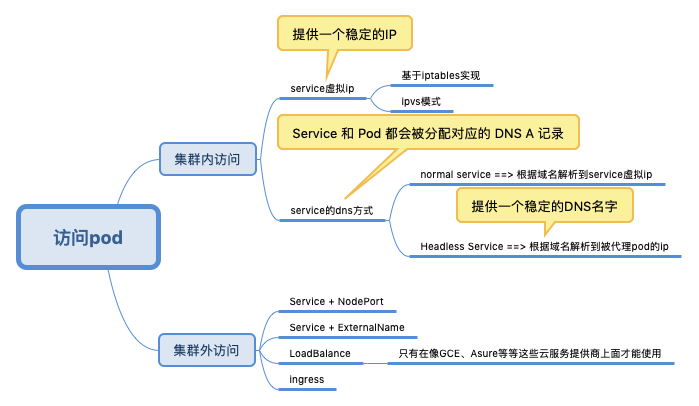
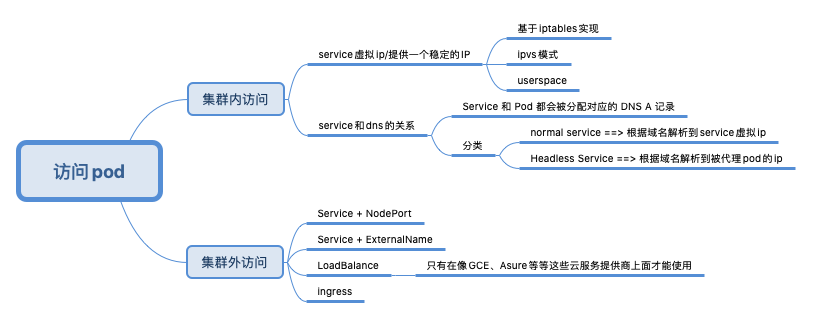
[fix]

diff --git a/_posts/Technology/Kubernetes/2015-03-04-kubernetes_service.md b/_posts/Technology/Kubernetes/2015-03-04-kubernetes_service.md
@@ -1,6 +1,6 @@
 ---
 layout: post
-title: 访问Kubernetes上的服务
+title: 访问Kubernetes上的Service
 category: 技术
 tags: Kubernetes
 keywords: Docker Kubernetes
@@ -12,92 +12,99 @@ keywords: Docker Kubernetes
 * TOC
 {:toc}
 
-本文主要来自对[https://cloud.google.com/container-engine/docs](https://cloud.google.com/container-engine/docs "")的摘抄，有删改。
+本文均在“访问Pod 必须通过 Service的范畴”
 
-2019.1.29补充：之前理解的服务对外部的访问，服务的“粒度”比较大，如一个支付接口，后面一堆服务支撑。而Kubernetes 是打算将pod 级别的对外访问也交给service，因为ip 是变化的 以及 多个pod 负载均衡的需求，这也是kubernetes 不提倡ip 访问而提供的替换方案。但service 是基于iptables实现的，在复杂系统中，网络处理越简单越好。iptables是万恶之源，给实际工作中的运维排错带来极大的麻烦。在一些大厂的实践中，一般很少使用service 方案。
 
 ![](/public/upload/kubernetes/kubernetes_service_access.png)
 
 ## What is a service?
 
-K8S 集群的服务，本质上是负载均衡，即反向代理;在实际实现中，这个反向代理，并不是部署在集群某一个节点上（有单点问题），而 是作为集群节点的边车，部署在每个节点上的。把服务照进反向代理这个现实的，是 K8S 集群的一个控制器，即 kube-proxy。简单来 说，kube-proxy 通过集群 API Server 监听 着集群状态变化。当有新的服务被创建的时候，kube-proxy 则会把集群服务的状 态、属性，翻译成反向代理的配置。**K8S 集群节点实现服务反向代理的方法，目前主要有三种，即 userspace、 iptables 以及 ipvs**，k8s service 选了iptables。实现反向代理，归根结底，就是做 DNAT，即把发送给集群服务 IP 和端口的数 据包，修改成发给具体容器组的 IP 和端口。
-
-Container Engine pods are ephemeral（短暂的）. They can come and go over time, especially when driven by things like replication controllers. While each pod gets its own IP address, **those IP addresses cannot be relied upon to be stable over time（直接通过一个pod的ip来访问它是不可靠的）**. This leads to a problem: if some set of pods (let's call them backends) provides functionality to other pods (let's call them frontends) inside a cluster, how do those frontends find the backends?
-(Pod组件的状态经常变化，也可能存在多个副本，那么其他组件如何来访问它呢)
-
-A Container Engine service is an abstraction which defines a logical set of pods and a policy by which to access them. **The goal of services is to provide a bridge for non-Kubernetes-native applications to access backends without the need to write code that is specific to Kubernetes. A service offers clients an IP and port pair which, when accessed, redirects to the appropriate backends.(service会提供一个稳定的ip，作为桥梁，让其它pod访问。而service负责将请求转发到其对应的pod上)** The set of pods targeted is determined by a label selector.
-
-![kubernete_service_model.png](/public/upload/kubernetes/kubernete_service_model.png)
-
-突然想起一句话：计算机里的事情，没什么问题是加一层解决不了的。
+Kubernetes 之所以需要 Service，一方面是因为 Pod 的 IP 不是固定的，另一方面则是因为一组 Pod 实例之间总会有负载均衡的需求。
 
 ### How do they work?——基于iptables实现
 
-Service 是由 kube-proxy 组件，加上 iptables 来共同实现的。
+K8S 集群的服务，本质上是负载均衡，即反向代理;在实际实现中，这个反向代理，并不是部署在集群某一个节点上（有单点问题），而 是**作为集群节点的边车**，部署在每个节点上的。把服务照进反向代理这个现实的，是 K8S 集群的一个控制器，即 kube-proxy。简单来 说，kube-proxy 通过集群 API Server 监听 着集群状态变化。当有新的服务被创建的时候，kube-proxy 则会把集群服务的状 态、属性，翻译成反向代理的配置。**K8S 集群节点实现服务反向代理的方法，目前主要有三种，即 userspace、 iptables 以及 ipvs**，k8s service 选了iptables。实现反向代理，归根结底，就是做 DNAT，即把发送给集群服务 IP 和端口的数 据包，修改成发给具体容器组的 IP 和端口。
 
-[服务网格（Service Mesh）与Kubernetes的服务发现](http://weng.ai/post/1009/)Kubernetes通过抽象出Service对象来支持微服务架构，运行应用的多个Pod实例通过定义Service对象对外提供服务。应用之间通过Service名来相互访问，通过Service名的DNS解析完成服务发现。具体的，Pod实例运行时会将实例的地址端口等信息注册到kube-apiserver，与相关的Service建立关联（数据存储于背后的etcd存储），同时K8S节点会监听到该Service与Pod实例节点映射关系的变化。对于通常的一个Service名（非Headless Service），它会被DNS服务解析到一个虚拟IP（Virtual IP），而K8S节点上的kube-proxy进程会根据Service的信息建立这个虚拟IP的iptables转发规则：将发送到该虚拟IP的数据均衡的转发到若干个提供该服务的Pod实例所在的节点，以提供L4层的负载均衡功能。
+A service provides a stable virtual IP (VIP) address for a set of pods. It’s essential to realize that VIPs do not exist as such in the networking stack. For example, **you can’t ping them.** They are only Kubernetes- internal administrative entities. Also note that the format is IP:PORT, so the IP address along with the port make up the VIP. **Just think of a VIP as a kind of index into a data structure mapping to actual IP addresses.**
 
-Every node in a Kubernetes cluster runs a kube-proxy. **This application watches the Kubernetes master for the addition and removal of Service and Endpoints objects. For each Service it opens a port (random) on the local node. Any connections made to that port will be proxied to one of the corresponding backend Pods.** Which backend to use is decided based on the AffinityPolicy of the Service. Lastly, it installs iptables rules which capture traffic to the Service's Port on the Service's portal IP and redirects that traffic to the previously described port.
-
-The net result is that any traffic bound for the Service is proxied to an appropriate backend without the clients knowing anything about Kubernetes or Services or Pods.
+![](/public/upload/kubernetes/service_communicate.png)
 
 When a pod is scheduled, the master adds a set of environment variables for each active service.
 
-两台主机`192.168.56.101`和`192.168.56.102`，假设我运行一个apache2 pod和apache2 service，查看：
+### 示例
 
-    $ kubectl get service
-    NAME                LABELS                                    SELECTOR            IP                  PORT
-    apache2-service     <none>                                    name=apache2        10.100.62.248       9090
-    kubernetes          component=apiserver,provider=kubernetes   <none>              10.100.0.2          443
-    kubernetes-ro       component=apiserver,provider=kubernetes   <none>              10.100.0.1          80
-    
-    $ kubectl get pods
-    POD                 IP                  CONTAINER(S)        IMAGE(S)                     HOST                            LABELS              STATUS
-    apache2-pod         10.100.83.5         apache2             docker-registry.sh/apache2   192.168.56.102/192.168.56.102   name=apache2        Running
-    
-Kubernetes内部如何访问这个Pod对应的Service？
+```yaml
+apiVersion: apps/v1
+kind: Deployment
+metadata:
+  name: hostnames
+spec:
+  selector:
+    matchLabels:
+      app: hostnames
+  replicas: 3
+  template:
+    metadata:
+      labels:
+        app: hostnames
+    spec:
+      containers:
+      - name: hostnames
+        image: k8s.gcr.io/serve_hostname
+        ports:
+        - containerPort: 9376
+          protocol: TCP
+```
 
-1. 通过DNS
-2. 环境变量
+用 selector 字段来声明这个 Service 只代理携带了 app=hostnames 标签的 Pod
 
-    apache pod的ip是`10.100.83.5`，pod的ip是不可靠的，所以其它pod要通过pod对应的service `10.100.62.248:9090`来访问这个pod。Kubernetes为minion节点添加iptables规则（将`10.100.62.248:9090`转发到一个任意端口），当minion收到来自`10.100.62.248:9090`请求时，将请求转发到任意端口，Kube-proxy进程再将其转发（根据一定的分发策略）到Pod上。
-    
-那么外界如何访问这个pod呢？我们可以看到这个pod被分配到了`192.168.56.102`这台主机上，查看这台主机的iptables。（`192.168.56.101`也为该service做了映射，此处不再赘述）
-   
-    $ sudo iptables -nvL -t nat 
-    Chain KUBE-PORTALS-CONTAINER (1 references)
-    pkts bytes target     prot opt in     out     source               destination
-    0     0 REDIRECT   tcp  --  *      *       0.0.0.0/0            10.100.0.1           /* kubernetes-ro */ tcp dpt:80 redir ports 37483
-    0     0 REDIRECT   tcp  --  *      *       0.0.0.0/0            10.100.0.2           /* kubernetes */ tcp dpt:443 redir ports 46593
-    0     0 REDIRECT   tcp  --  *      *       0.0.0.0/0            10.100.62.248        /* apache2-service */ tcp dpt:9090 redir ports 36036
-    
-可以发现kube_proxy为其分配了36036端口，以后其它应用就可以通过`192.168.56.102  :36036`来访问`10.100.62.248:9090`，进而访问`10.100.83.5:80`
+```yaml
+apiVersion: v1
+kind: Service
+metadata:
+  name: hostnames
+spec:
+  selector:
+    app: hostnames
+  ports:
+  - name: default
+    protocol: TCP
+    port: 80
+    targetPort: 9376
+```
 
-查看etcd：
+一旦它被提交给 Kubernetes，那么 kube-proxy 就可以通过 Service 的 Informer 感知到这样一个 Service 对象的添加。而作为对这个事件的响应，它就会在宿主机上创建这样一条 iptables 规则
 
-    $ etcdctl get /registry/services/endpoints/default/apache2-service
-    {"kind":"Endpoints","id":"apache2-service","uid":"09a711e5-c3d0-11e4-b06e-0800272b69e4","creationTimestamp":"2015-03-06T07:11:41Z","selfLink":"/api/v1beta1/endpoints/apache2-service?namespace=default","resourceVersion":14119,"apiVersion":"v1beta1","namespace":"default","endpoints":["10.100.83.5:80"]}
-    
-    $ etcdctl get /registry/services/specs/default/apache2-service
-    {"kind":"Service","id":"apache2-service","uid":"07cc9702-c3d0-11e4-b06e-0800272b69e4","creationTimestamp":"2015-03-06T07:11:37Z","apiVersion":"v1beta1","namespace":"default","port":9090,"protocol":"TCP","selector":{"name":"apache2"},"containerPort":80,"portalIP":"10.100.62.248","sessionAffinity":"None"}
-    
+```
+-A KUBE-SERVICES -d 10.0.1.175/32 -p tcp -m comment --comment "default/hostnames: cluster IP" -m tcp --dport 80 -j KUBE-SVC-NWV5X2332I4OT4T3
+```
+这条 iptables 规则的含义是：凡是目的地址是 10.0.1.175、目的端口是 80 的 IP 包，都应该跳转到另外一条名叫 KUBE-SVC-NWV5X2332I4OT4T3 的 iptables 链进行处理。这一条规则就为这个 Service 设置了一个固定的入口地址。并且，由于 10.0.1.175 只是一条 iptables 规则上的配置，并没有真正的网络设备，所以你 ping 这个地址，是不会有任何响应的。
 
-可以看到，一些相关信息都会被记录到etcd中。
+```
+-A KUBE-SVC-NWV5X2332I4OT4T3 -m comment --comment "default/hostnames:" -m statistic --mode random --probability 0.33332999982 -j KUBE-SEP-WNBA2IHDGP2BOBGZ
+-A KUBE-SVC-NWV5X2332I4OT4T3 -m comment --comment "default/hostnames:" -m statistic --mode random --probability 0.50000000000 -j KUBE-SEP-X3P2623AGDH6CDF3
+-A KUBE-SVC-NWV5X2332I4OT4T3 -m comment --comment "default/hostnames:" -j KUBE-SEP-57KPRZ3JQVENLNBR
+```
 
-Service 的 VIP 只是一条 iptables 规则上的配置，并没有真正的网络设备，所以你 ping 这个地址，是不会有任何响应的。
+KUBE-SVC-NWV5X2332I4OT4T3 规则实际上是一组随机模式（–mode random）的 iptables 链，而随机转发的目的地，分别是 KUBE-SEP-WNBA2IHDGP2BOBGZ、KUBE-SEP-X3P2623AGDH6CDF3 和 KUBE-SEP-57KPRZ3JQVENLNBR，其实就是这个 Service 代理的三个 Pod。
 
-A service, through its label selector(a key:value pair), can resolve to 0 or more pods. Over the life of a service, the set of pods which comprise that service can grow, shrink, or turn over completely. Clients will only see issues if they are actively using a backend when that backend is removed from the service (and even then, open connections will persist for some protocols).
+```
 
-### kubernetes和kubernetes-ro
+-A KUBE-SEP-57KPRZ3JQVENLNBR -s 10.244.3.6/32 -m comment --comment "default/hostnames:" -j MARK --set-xmark 0x00004000/0x00004000
+-A KUBE-SEP-57KPRZ3JQVENLNBR -p tcp -m comment --comment "default/hostnames:" -m tcp -j DNAT --to-destination 10.244.3.6:9376
 
-kubernetes启动时，默认有两个服务kubernetes和kubernetes-ro
+-A KUBE-SEP-WNBA2IHDGP2BOBGZ -s 10.244.1.7/32 -m comment --comment "default/hostnames:" -j MARK --set-xmark 0x00004000/0x00004000
+-A KUBE-SEP-WNBA2IHDGP2BOBGZ -p tcp -m comment --comment "default/hostnames:" -m tcp -j DNAT --to-destination 10.244.1.7:9376
 
-    $ kubectl get services
-    NAME                LABELS                                    SELECTOR            IP                  PORT
-    kubernetes          component=apiserver,provider=kubernetes   <none>              10.100.0.2          443
-    kubernetes-ro       component=apiserver,provider=kubernetes   <none>              10.100.0.1          80
-    
-Kubernetes uses service definitions for the API service as well（kubernete中的pod可以通过`10.100.0.1:80/api/xxx`来向api server发送控制命令，kubernetes-ro可操作的api应该都是只读的）.
+-A KUBE-SEP-X3P2623AGDH6CDF3 -s 10.244.2.3/32 -m comment --comment "default/hostnames:" -j MARK --set-xmark 0x00004000/0x00004000
+-A KUBE-SEP-X3P2623AGDH6CDF3 -p tcp -m comment --comment "default/hostnames:" -m tcp -j DNAT --to-destination 10.244.2.3:9376
+```
+
+当你的宿主机上有大量 Pod 的时候，成百上千条 iptables 规则不断地被刷新，会大量占用该宿主机的 CPU 资源，甚至会让宿主机“卡”在这个过程中。
+
+## Service 的特别形式
+
+在yaml 配置层面 LoadBalancer/NodePort/ExternalName 的kind 都是 Service
 
 ### PublicIPs
 
@@ -114,46 +121,111 @@ service configure文件中有一个`PublicIPs`属性
       "port": 8765
       "PublicIPs": [192.168.56.102,192.168.56.103]
     }
-    
+
 在这里`192.168.56.102`和`192.168.56.103`是k8s集群从节点的ip（**主节点ip不行**）。这样，我们就可以通过`192.168.56.102:8765`和`192.168.56.102:8765`来访问这个service了。其好处是，kube-proxy为我们映射的端口是确定的。
 
-## NodePort
+### LoadBalancer
+
+```yaml
+kind: Service
+apiVersion: v1
+metadata:
+  name: example-service
+spec:
+  type: LoadBalancer
+  ports:
+  - port: 8765
+    targetPort: 9376
+  selector:
+    app: example
+```
+
+### NodePort
 
 所谓 Service 的访问入口，其实就是每台宿主机上由 kube-proxy 生成的 iptables 规则，以及 kube-dns 生成的 DNS 记录。而一旦离开了这个集群，这些信息对用户来说，也就自然没有作用了。比如，一个集群外的host 对service vip 一点都不感冒。
 
+
+```yaml
+apiVersion: v1
+kind: Service
+metadata:
+  name: my-nginx
+  labels:
+    run: my-nginx
+spec:
+  type: NodePort
+  ports:
+  - nodePort: 8080
+    targetPort: 80
+    protocol: TCP
+    name: http
+  - nodePort: 443
+    protocol: TCP
+    name: https
+  selector:
+    run: my-nginx
+```
+
+### ExternalName
+
+```yaml
+kind: Service
+apiVersion: v1
+metadata:
+  name: my-service
+spec:
+  type: ExternalName
+  externalName: my.database.example.com
+```
+
 ## Ingress
+
+[Ingress](https://kubernetes.io/docs/concepts/services-networking/ingress/) exposes HTTP and HTTPS routes from outside the cluster to services within the cluster. Traffic routing is controlled by rules defined on the Ingress resource. An Ingress may be configured to **give Services externally-reachable URLs**, load balance traffic, terminate SSL / TLS, and offer name based virtual hosting. 
+
+![](/public/upload/kubernetes/ingress_communicate.png)
+
+|对外形态|Kubernetes Object|工作组件|
+|---|---|---|
+|ip|Pod|docker|
+|stable virtual ip|Service|apiserver + kube-proxy|
+|externally-reachable URLs|Ingress|apiserver + nginx-ingress|
 
 ### Ingress 示例
 
-    apiVersion: extensions/v1beta1
-    kind: Ingress
-    metadata:
-    name: cafe-ingress
-    spec:
-    tls:
-    - hosts:
-        - cafe.example.com
-        secretName: cafe-secret
-    rules:
-    - host: cafe.example.com
-        http:
-        paths:
-        - path: /tea
-            backend:
-            serviceName: tea-svc
-            servicePort: 80
-        - path: /coffee
-            backend:
-            serviceName: coffee-svc
-            servicePort: 80
+```yaml
+apiVersion: extensions/v1beta1
+kind: Ingress
+metadata:
+name: cafe-ingress
+spec:
+tls:
+- hosts:
+    - cafe.example.com
+    secretName: cafe-secret
+rules:
+- host: cafe.example.com
+    http:
+    paths:
+    - path: /tea
+        backend:
+        serviceName: tea-svc
+        servicePort: 80
+    - path: /coffee
+        backend:
+        serviceName: coffee-svc
+        servicePort: 80
+```
+
+一个 Ingress 对象的主要内容，实际上就是一个“反向代理”服务（比如：Nginx）的配置文件的描述。而这个代理服务对应的转发规则，就是 IngressRule。
 
 host 字段定义的值，就是这个 Ingress 的入口，当用户访问 cafe.example.com 的时候，实际上访问到的是这个 Ingress 对象。每一个 path 都对应一个后端 Service
 
-一个 Ingress 对象的主要内容，实际上就是一个“反向代理”服务（比如：Nginx）的配置文件的描述。
 
 ### Ingress Controller 部署和实现
 
-Ingress和Pod、Servce等等类似，被定义为kubernetes的一种资源。本质上说Ingress只是存储在etcd上面一些数据，我们可以通过kubernetes的apiserver添加删除和修改ingress资源。真正让整个Ingress运转起来的一个重要组件是Ingress Controller，但并不像其它Controller一样作为kubernetes的核心组件在master启动的时候一起启动起来
+Ingress和Pod、Servce等等类似，被定义为kubernetes的一种资源。本质上说Ingress只是存储在etcd上面一些数据，我们可以通过kubernetes的apiserver添加删除和修改ingress资源。
+
+有了 Ingress 这样一个统一的抽象，Kubernetes 的用户就无需关心 Ingress 的具体细节了。在实际的使用中，你只需要从社区里选择一个具体的 Ingress Controller，把它部署在 Kubernetes 集群里即可。这个 Ingress Controller 会根据你定义的 Ingress 对象，提供对应的代理能力。目前，业界常用的各种反向代理项目，比如 Nginx、HAProxy、Envoy、Traefik 等，都已经为 Kubernetes 专门维护了对应的 Ingress Controller。
 
 部署 Nginx Ingress Controller`kubectl apply -f https://raw.githubusercontent.com/kubernetes/ingress-nginx/master/deploy/mandatory.yaml` 
 
@@ -161,9 +233,8 @@ Ingress和Pod、Servce等等类似，被定义为kubernetes的一种资源。本
 
 当一个新的 Ingress 对象由用户创建后，nginx-ingress-controller 就会根据Ingress 对象里定义的内容，生成一份对应的 Nginx 配置文件（`/etc/nginx/nginx.conf`），并使用这个配置文件启动一个 Nginx 服务。而一旦 Ingress 对象被更新，nginx-ingress-controller 就会更新这个配置文件。如果这里只是被代理的 Service 对象被更新，nginx-ingress-controller 所管理的 Nginx 服务是不需要重新加载（reload）的，因为其通过Nginx Lua方案实现了 Nginx Upstream 的动态配置。
 
-具体实现参见 [扩展Kubernetes](http://qiankunli.github.io/2019/05/24/kubernetes_extension.html)
 
-## 其它材料
+## 其它
 
 [Kubernetes networking 101 – Services](http://www.dasblinkenlichten.com/kubernetes-networking-101-services/)
 
@@ -171,12 +242,15 @@ Ingress和Pod、Servce等等类似，被定义为kubernetes的一种资源。本
 
 [Kubernetes Networking 101 – Ingress resources](http://www.dasblinkenlichten.com/kubernetes-networking-101-ingress-resources/)
 
-[Getting started with Calico on Kubernetes](http://www.dasblinkenlichten.com/getting-started-with-calico-on-kubernetes/)（未读）My goal with these posts has been to focus on the primitives and to show how a Kubernetes cluster handles networking internally as well as how it interacts with the upstream or external network. 
+[Getting started with Calico on Kubernetes](http://www.dasblinkenlichten.com/getting-started-with-calico-on-kubernetes/)（未读）
 
-A service provides a stable virtual IP (VIP) address for a set of pods. It’s essential to realize that VIPs do not exist as such in the networking stack. For example, **you can’t ping them.** They are only Kubernetes- internal administrative entities. Also note that the format is IP:PORT, so the IP address along with the port make up the VIP. **Just think of a VIP as a kind of index into a data structure mapping to actual IP addresses.**
+### kubernetes和kubernetes-ro
 
-k8s的service discovery 真的是 service 组件的discovery
+kubernetes启动时，默认有两个服务kubernetes和kubernetes-ro
 
-1. kube-proxy，给service 一个host 可访问的ip:port
-2. kube-dns/CNCF project CoreDNS，给service 一个域名
-3. Ingress，给service 一个可访问的http path
+    $ kubectl get services
+    NAME                LABELS                                    SELECTOR            IP                  PORT
+    kubernetes          component=apiserver,provider=kubernetes   <none>              10.100.0.2          443
+    kubernetes-ro       component=apiserver,provider=kubernetes   <none>              10.100.0.1          80
+    
+Kubernetes uses service definitions for the API service as well（kubernete中的pod可以通过`10.100.0.1:80/api/xxx`来向api server发送控制命令，kubernetes-ro可操作的api应该都是只读的）.

diff --git a/_posts/Technology/Kubernetes/2020-03-03-learn_kubernetes.md b/_posts/Technology/Kubernetes/2020-03-03-learn_kubernetes.md
@@ -68,5 +68,6 @@ keywords: kubernetes yaml
 |adminssion controller|webhook|
 |Scheduler plugin|被编译到Scheduler中|
 |Operator|binary，以容器方式运行在Kubernetes 集群中<br>通过扩展API server支持与kubectl 交互|
+|Ingress Controller|pod 部署在 Kubernetes 集群里，根据api server 中Ingress 数据做出处理即可|
 
 
